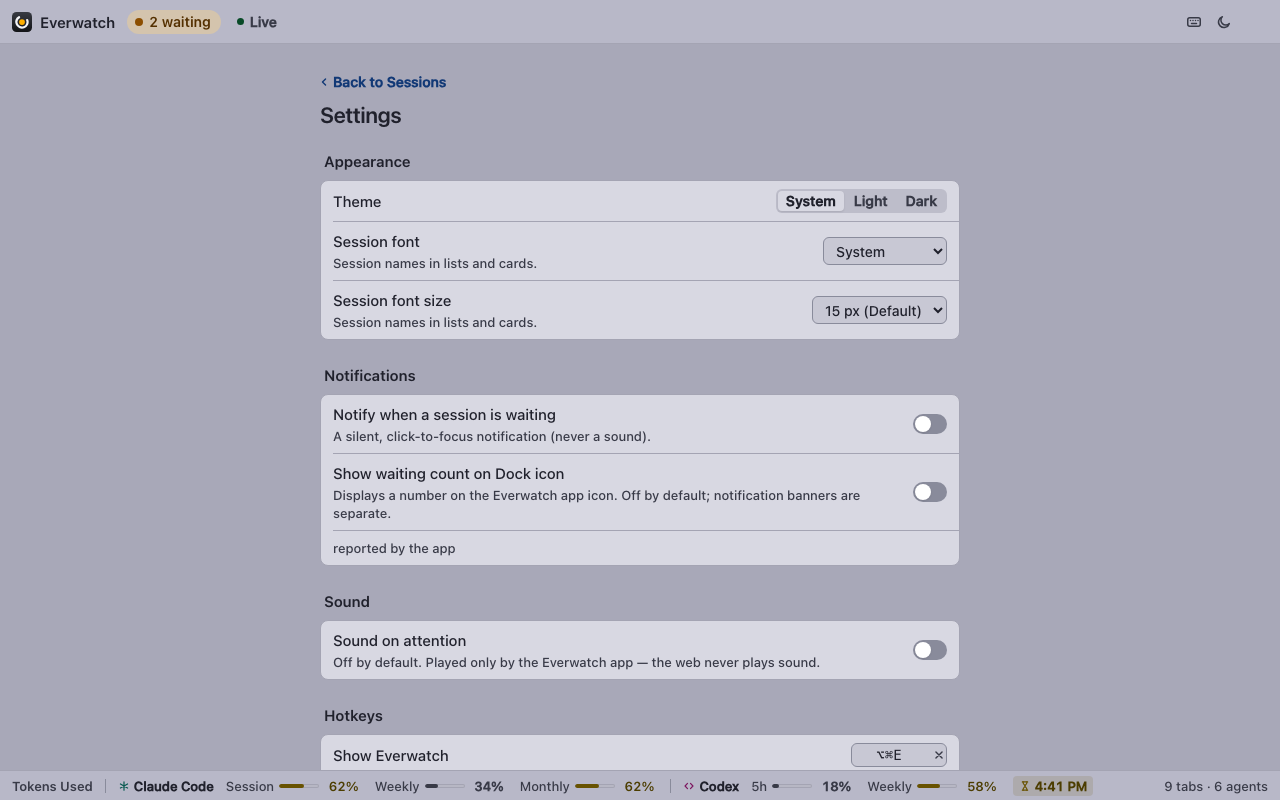
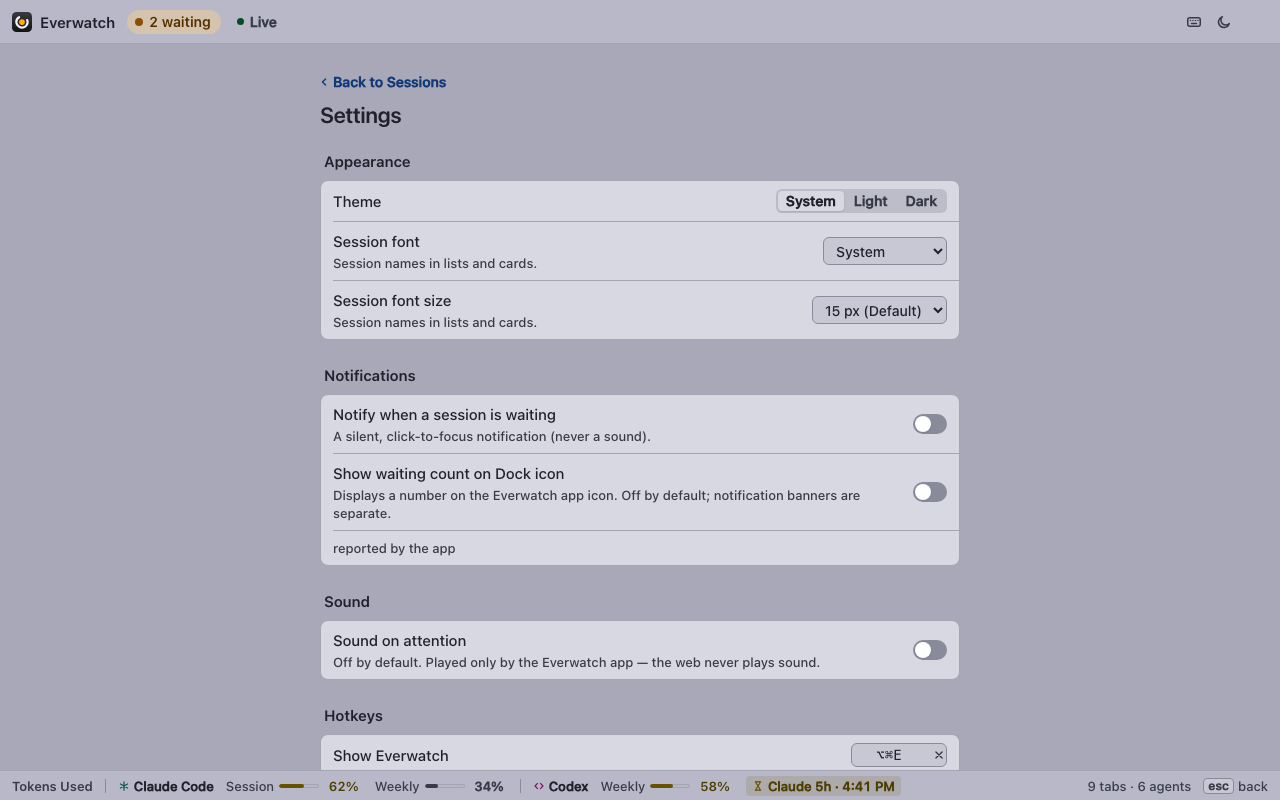
Fix demo quota categories and refresh v0.2.6 screenshots

Changed region(s): [[0.4062, 0.9688, 0.7188, 1.0], [0.75, 0.9688, 1.0, 1.0]]

diff --git a/everwatch/web/css/chrome.css b/everwatch/web/css/chrome.css
@@ -256,6 +256,7 @@ html[data-shell="1"] .brand { display: none; }
 .tok-alert .tok-icon.is-shown { display: block; }
 .tok-alert .tok-icon--pace { color: var(--warn-fill); }
 .tok-alert .tok-icon--hit { color: var(--danger); }
+.tok-alert-short { display: none; }
 .tok-alert-short[hidden] { display: none; }
 
 /* §4.18.4 / §4.10 step-down: views/tokens.mjs raises data-fit one level at

diff --git a/shell/Sources/Core/StatusTitle.swift b/shell/Sources/Core/StatusTitle.swift
@@ -62,7 +62,7 @@ enum StatusTitle {
 
 /// Version strings for the About panel (P-77).
 enum ShellInfo {
-    static let version = "0.2.5"
+    static let version = "0.2.6"
     static let bundleIdentifier = "io.github.burnsbert.everwatch"
     static let itermBundleIdentifier = "com.googlecode.iterm2"
 

diff --git a/tests/py/test_demo_source.py b/tests/py/test_demo_source.py
@@ -101,7 +101,9 @@ class TestFleet(unittest.TestCase):
                     not r['projection']['hit']]
         self.assertTrue(warnings)
         self.assertEqual([r['id'] for r in self.state['usage']['claude']['rows']],
-                         ['cc.five_hour', 'cc.seven_day', 'cc.monthly'])
+                         ['cc.five_hour', 'cc.seven_day'])
+        self.assertEqual([r['id'] for r in self.state['usage']['codex']['rows']],
+                         ['cx.seven_day'])
         self.assertFalse(any(r['hit'] for r in rows))
         self.assertEqual({r['level'] for r in rows},
                          {'green', 'yellow'})
@@ -128,7 +130,7 @@ class TestFleet(unittest.TestCase):
         by_id = {}
         for s in samples:
             by_id.setdefault(s['id'], []).append((s['at'], s['pct']))
-        for uid in ('cc.five_hour', 'cx.five_hour'):
+        for uid in ('cc.five_hour',):
             ats = [at for at, _pct in by_id[uid]]
             oldest_hours = (T0 - min(ats)) / 3600
             self.assertGreaterEqual(oldest_hours, 5, uid)
@@ -277,7 +279,10 @@ class TestLiveBehavior(unittest.TestCase):
             src.fetch_paths()
 
     def test_quota_demo_prompt_and_draft(self):  # parity: W-9, P-69
-        engine, src, clock = self.live(quota=True)
+        scenario = json.loads(json.dumps(SCENARIO))
+        scenario['usage']['claude']['extra_usage'] = {
+            'is_enabled': True, 'monthly_limit': 20000, 'used_credits': 12340}
+        engine, src, clock = self.live(quota=True, scenario=scenario)
         prompt = engine.published.state['quota_prompt']
         self.assertEqual(prompt['to'], 'eng-manager@example.com')
         engine.call('quota_draft')

diff --git a/everwatch/sources/demo.py b/everwatch/sources/demo.py
@@ -532,6 +532,7 @@ USAGE_BACKFILL_HOURS = {
     'cc.five_hour': 5.5, 'cc.seven_day': 4 * 24, 'cc.seven_day_sonnet': 4 * 24,
     'cx.five_hour': 5.5, 'cx.seven_day': 4 * 24,
 }
+CODEX_WINDOW_IDS = {18000: 'cx.five_hour', 604800: 'cx.seven_day'}
 USAGE_BACKFILL_INTERVAL = 900  # seconds (15 min): enough shape, not too many points
 
 
@@ -548,12 +549,13 @@ def _usage_growth_specs(scenario):
         if bucket:
             specs[f'cc.{key}'] = (bucket.get('utilization', 0),
                                   bucket.get('rate_per_hour', 0))
-    for key, uid in (('primary_window', 'cx.five_hour'),
-                     ('secondary_window', 'cx.seven_day')):
+    for key in ('primary_window', 'secondary_window'):
         window = codex.get(key)
         if window:
-            specs[uid] = (window.get('used_percent', 0),
-                          window.get('rate_per_hour', 0))
+            uid = CODEX_WINDOW_IDS.get(window.get('limit_window_seconds'))
+            if uid:
+                specs[uid] = (window.get('used_percent', 0),
+                              window.get('rate_per_hour', 0))
     return specs
 
 

diff --git a/everwatch/__init__.py b/everwatch/__init__.py
@@ -7,4 +7,4 @@ DataSource and serves a localhost HTTP/SSE API to a vanilla-JS web UI
 inside a small Swift shell. See docs/DESIGN.md for the full design.
 """
 
-__version__ = '0.2.5'
+__version__ = '0.2.6'

diff --git a/docs/DESIGN.md b/docs/DESIGN.md
@@ -158,7 +158,7 @@ has no test tagged `P-xx`.
 | P-51 | Claude usage: OAuth token read via `security find-generic-password -s 'Claude Code-credentials' -w` (`.claudeAiOauth.accessToken`), then `GET https://api.anthropic.com/api/oauth/usage` with the beta and User-Agent headers. 5-minute interval, 5 s timeout (`usage_claude.py:11-56`). | Ported verbatim. | = | py |
 | P-52 | Codex usage: token from `~/.codex/auth.json`, then `GET chatgpt.com/backend-api/wham/usage`. Missing 5h/7d windows are filled from the 10 newest `~/.codex/sessions/*/*/*/*.jsonl` files (under 24 h old, last 8 MB, `rate_limits`) (`usage_codex.py`). | Ported verbatim. | = | py |
 | P-53 | Usage pollers run only while a matching agent is running. When none is, the data clears and an `inactive` event is published once. Retry-After is honored as `max(base, retry)`, and the last good data is kept on failure (`pollers.py:241-304`). | Same. | = | py |
-| P-54 | Footer rows: CC Session (5h), Weekly (7d), Sonnet (7d); CC Monthly Limit, or `CC Extra Usage` when no limit is set; CX 5h and 7d. Each shows a percent, a bar, severity (≥80 red, ≥50 yellow, else green), and a reset countdown like `2h 15m (Today at 5:59pm)` (`usage_footer.py`, `projection.py:119-138`, `timefmt.py`). | The bottom strip renders the quota buckets actually returned by each provider, with compact meters, severity, and reset countdowns. The demo shows current Claude five-hour and weekly limits plus optional monthly extra usage; it does not fabricate a Sonnet-only limit. | ~ | py, e2e |
+| P-54 | Footer rows: CC Session (5h), Weekly (7d), Sonnet (7d); CC Monthly Limit, or `CC Extra Usage` when no limit is set; CX 5h and 7d. Each shows a percent, a bar, severity (≥80 red, ≥50 yellow, else green), and a reset countdown like `2h 15m (Today at 5:59pm)` (`usage_footer.py`, `projection.py:119-138`, `timefmt.py`). | The bottom strip renders the quota buckets actually returned by each provider, with compact meters, severity, and reset countdowns. The demo shows Claude Session and Weekly followed by Codex Weekly, matching the real display used for these screenshots. | ~ | py, e2e |
 | P-55 | Pace projections: `on pace to hit {name} limit {when}` (warning) and `{name} limit hit` (danger). The monthly projection appears only if the hit would happen before next month starts. Codex has the same (`projection.py:24-116`). | Warning line under each meter, plus a dashed projection line on the burn-down chart (W-6). | = | py, e2e |
 | P-56 | Error rows: `usage API fetch failed` and `Codex usage fetch failed` when there's no data. The usage screen shows `fetch failing — showing data from X ago` when data is stale (`usage_footer.py:46-47,60-62`, `usage_view.py:80-84,109-113`). | Same text in the meter and the Usage view, with a retry button. | = | py, e2e |
 | P-57 | Usage screen (`u`): Claude Code and Codex sections, a `refreshed X ago` footer, and `no Claude Code or Codex sessions running` when empty. Keys: `$`, `r`, `u`/Esc (`usage_view.py`, `app.py:567-574`). | Usage view (`u` or toolbar) with the same sections and keys, plus charts (W-6). | ~ | e2e |
@@ -428,7 +428,7 @@ example, generated by `make golden` and consumed by the JS tests):
 
 ```json
 {
-  "rev": 412, "now": 1790000000.1, "started": 1789999000.0, "version": "0.2.5",
+  "rev": 412, "now": 1790000000.1, "started": 1789999000.0, "version": "0.2.6",
   "mode": "real|demo", "debug_state": false,
   "iterm": {"status": "ok|connecting|not_running|permission_denied|timeout|error",
             "error": "", "snapshot_at": 1790000000.0},

diff --git a/docs/SCREENSHOTS.md b/docs/SCREENSHOTS.md
@@ -2,8 +2,8 @@
 
 The images in [the README](../README.md#feature-tour) show Everwatch's
 scripted demo fleet. They contain sample project names, paths under
-`/Users/sam/src/`, terminal output, and usage figures based on the
-current five-hour and weekly quota categories. No live iTerm2
+`/Users/sam/src/`, terminal output, and usage figures for Claude Code
+Session and Weekly and Codex Weekly. No live iTerm2
 session or local account data is needed to reproduce them.
 
 ## Explore the demo

diff --git a/CHANGELOG.md b/CHANGELOG.md
@@ -1,5 +1,16 @@
 # Changelog
 
+## [0.2.6] — 2026-09-27
+
+### Fixed
+
+- Demo quotas and README screenshots now match the real display's visible
+  categories and order: Claude Code Session, Claude Code Weekly, then Codex
+  Weekly. Monthly extra usage and Codex five-hour limits are no longer
+  shown in the sample fleet.
+- The Tokens Used alert chip no longer repeats its run-out time when the
+  footer has enough room for the full label.
+
 ## [0.2.5] — 2026-09-27
 
 ### Added

diff --git a/README.md b/README.md
@@ -70,7 +70,8 @@ include plain shells; **AI sessions** shows only Claude Code and Codex.
 
 **Usage limits** — Claude Code and Codex windows, with burn-down charts and
 an on-pace-to-hit warning. Click any quota in the Tokens Used bar to jump
-here.
+here. The sample shows Claude Code Session and Weekly on the left, and
+Codex Weekly on the right.
 
 ![Usage view](docs/screenshots/usage-light.png)
 
